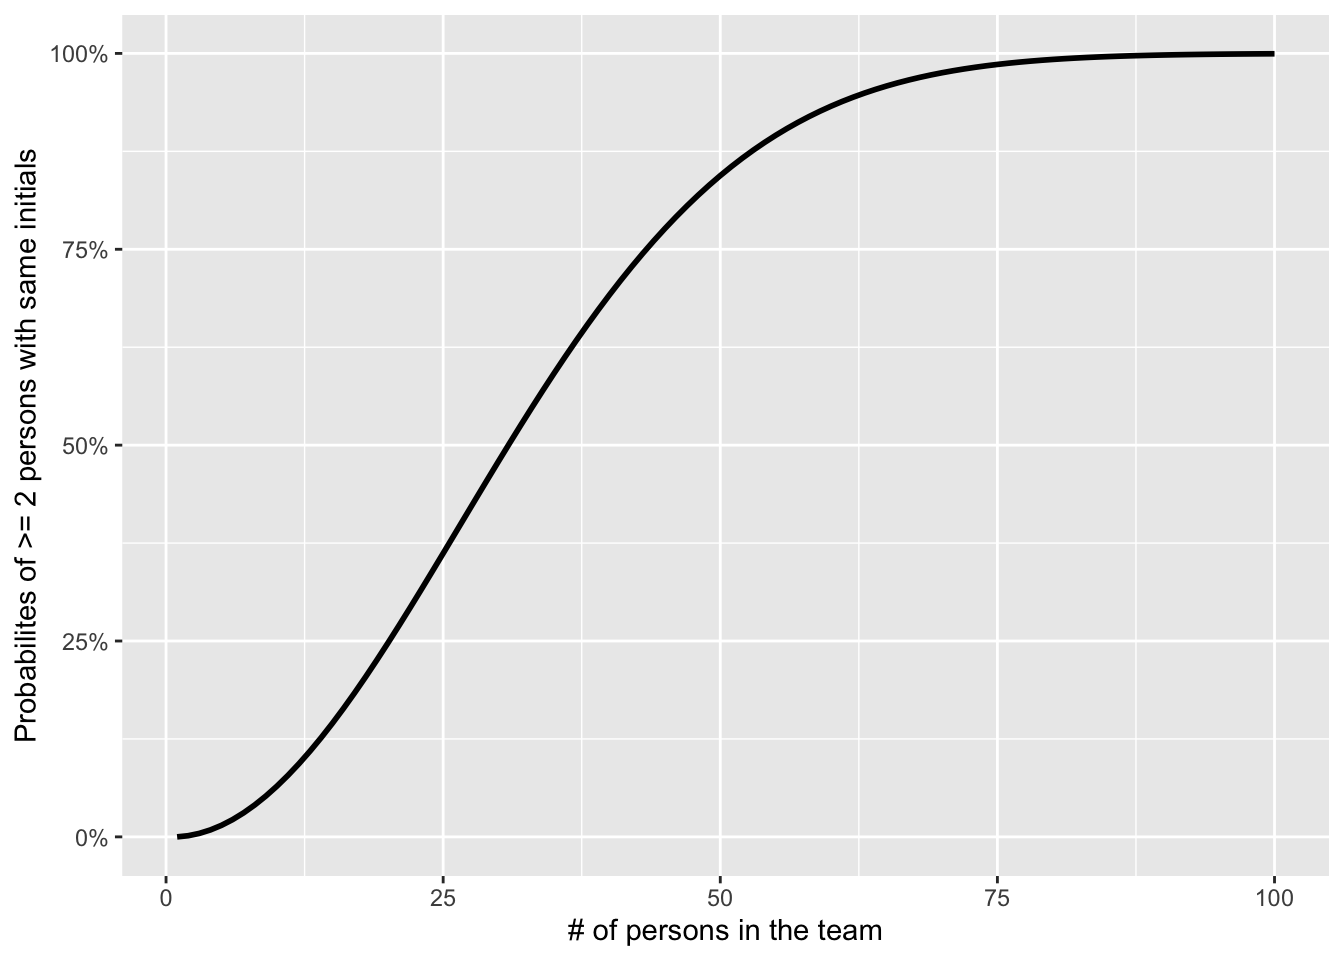
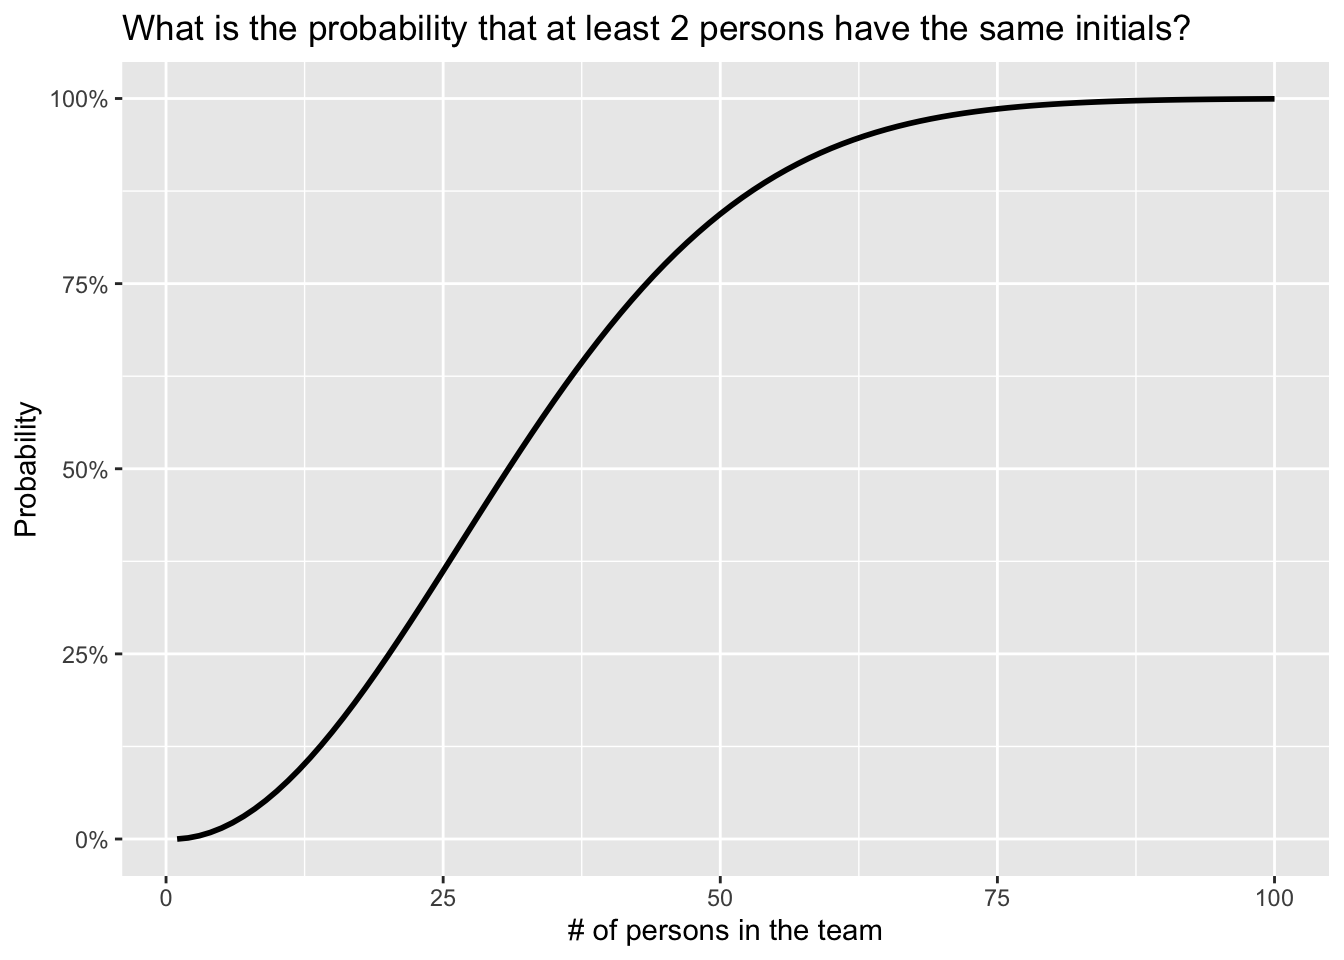
edit post

diff --git a/content/blog/2023-12-06-what-is-the-probability-that-two-persons-have-the-same-initials/index.html b/content/blog/2023-12-06-what-is-the-probability-that-two-persons-have-the-same-initials/index.html
@@ -44,21 +44,23 @@ output:
 <p>This was not really an issue, as we decided that I would write my initials backward, that is, “SA” instead of “AS”, and the other person would keep signing with “AS” as usual.</p>
 <p>It could have stopped here. However, the idea to write a post about this rather trivial anecdote came to me when the team leader claimed, in the middle of a meeting: “That’s very unfortunate that you two have the same initials! What are the chances of this happening to us?!”.</p>
 <p>We spent a couple of minutes trying to estimate this probability, which in the end were mostly based on our intuitions rather than on a formal calculation. This piqued my curiosity.</p>
-<p>Given that the project requires the use of simulations, I decided to focus on answering this question via simulations in R. That being said, we also verify results obtained through simulations with results using probability theory. This comparison will allow to assess the truthfulness of results obtained through simulations.</p>
+<p>Given that the project we are working on requires the use of simulations, I decided to focus on answering this question via simulations in R. That being said, as for most simulations, it is a good practice to verify these results. This is done using <a href="/blog/the-9-concepts-and-formulas-in-probability-that-every-data-scientist-should-know/">probability theory</a>. This comparison will allow to assess the truthfulness of results obtained through simulations.</p>
 <p>Furthermore, I thought that it would be a nice way to illustrate methods not often presented in my posts: for loops, replications and writing functions in R.</p>
 </div>
 <div id="how-likely-is-it" class="section level1">
 <h1>How likely is it?</h1>
-<p>Before computing this probability, there are two things to note:</p>
+<p>Before answering the question raised by the team leader, there are three things to note:</p>
 <ol style="list-style-type: decimal">
-<li>Although the team leader was curious to know the probability that <em>two persons</em> have the same initials, we are actually more interested in the probability that <em>at least</em> two persons have the same initials (as the problem also occurs if more than two persons within a team have the same initials).</li>
+<li>Although the team leader was curious to know the probability that <em>exactly two persons</em> have the same initials, we are actually more interested in the probability that <em>at least two persons</em> have the same initials (as the problem also occurs if more than two persons within a team have the same initials).</li>
 <li>The team consists of 8 people.</li>
+<li>We restrict ourselves to two-letters initials (the first letter being the first letter of the first name, the second letter being the first letter of the last name). This means that middle names are not taken into account, and only the first letter is considered for compound names.</li>
 </ol>
 <p>In this post, we will show how to compute this probability:</p>
 <ul>
 <li>in our context, that is, for a team of 8 persons, and</li>
 <li>for completeness, for teams of all sizes from 2 to 100 persons.</li>
 </ul>
+<p>As stated in the introduction, we will compute these probabilities first through simulations and then through probability theory.</p>
 <div id="for-our-team" class="section level2">
 <h2>For our team</h2>
 <p>We start by creating a vector of size 8, corresponding to the initials of a team of 8 persons randomly sampled among all 26 letters of the Latin alphabet:</p>
@@ -284,7 +286,8 @@ head(dat_plot_sim)</code></pre>
 ## 4         4 0.013
 ## 5         5 0.012
 ## 6         6 0.019</code></pre>
-<p>Of course, two people having the same initials in a team of 1 (if we can call this a team…) is impossible, so the probability is 0. We impute this probability in our data frame, in the first row:</p>
+<p>Of course, two people having the same initials in a team of 1 (if we can call this a team…) is impossible.</p>
+<p>An event which is impossible has a probability equal to 0. We thus impute this probability in our data frame, in the first row:</p>
 <pre class="r"><code># set proba = 1 when n_person = 1
 dat_plot_sim[1, 2] &lt;- 0
 
@@ -304,7 +307,8 @@ ggplot(dat_plot_sim) +
   geom_line(linewidth = 1) +
   labs(
     x = &quot;# of persons in the team&quot;,
-    y = &quot;Probabilites of &gt;= 2 persons with same initials&quot;
+    y = &quot;Probability&quot;,
+    title = &quot;What is the probability that at least 2 persons have the same initials?&quot;
   ) +
   scale_y_continuous(labels = scales::percent) # format y-axis in %</code></pre>
 <p><img src="{{< blogdown/postref >}}index_files/figure-html/unnamed-chunk-12-1.png" width="100%" style="display: block; margin: auto;" /></p>
@@ -314,7 +318,7 @@ ggplot(dat_plot_sim) +
 </div>
 <div id="verification" class="section level1">
 <h1>Verification</h1>
-<p>For the sake of completeness, we now compare results obtained through simulations with results obtained from <a href="/blog/the-9-concepts-and-formulas-in-probability-that-every-data-scientist-should-know/">probability theory</a>.</p>
+<p>For the sake of completeness, we now compare results obtained through simulations with results obtained from probability theory.</p>
 <p>We first define the function that will be used to compare results found above:</p>
 <pre class="r"><code># define function
 have_same &lt;- function(s, n) {
@@ -366,7 +370,8 @@ ggplot(dat_plot_theory) +
   geom_line(linewidth = 1) +
   labs(
     x = &quot;# of persons in the team&quot;,
-    y = &quot;Probabilites of &gt;= 2 persons with same initials&quot;
+    y = &quot;Probability&quot;,
+    title = &quot;What is the probability that at least 2 persons have the same initials?&quot;
   ) +
   scale_y_continuous(labels = scales::percent) # format y-axis in %</code></pre>
 <p><img src="{{< blogdown/postref >}}index_files/figure-html/unnamed-chunk-16-1.png" width="100%" style="display: block; margin: auto;" /></p>
@@ -382,7 +387,8 @@ ggplot(dat_plot_all) +
   geom_line(linewidth = 1) +
   labs(
     x = &quot;# of persons in the team&quot;,
-    y = &quot;Probabilites of &gt;= 2 persons with same initials&quot;
+    y = &quot;Probability&quot;,
+    title = &quot;What is the probability that at least 2 persons have the same initials?&quot;
   ) +
   scale_y_continuous(labels = scales::percent) # format y-axis in %</code></pre>
 <p><img src="{{< blogdown/postref >}}index_files/figure-html/unnamed-chunk-17-1.png" width="100%" style="display: block; margin: auto;" /></p>
